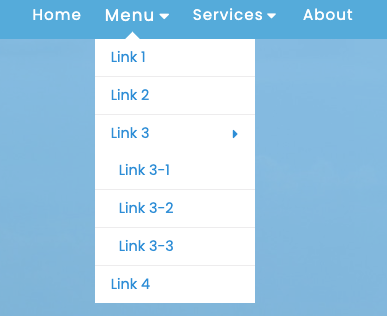
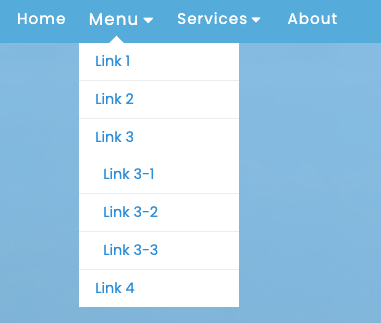
Fixed the arrow for show-dropdown in desktop screen size and updated screenshot for the README.md

Changed region(s): [[0.0, 0.0285, 1.0, 0.9684], [0.4619, 0.0285, 0.7218, 0.0854], [0.7507, 0.0285, 0.9239, 0.0854]]

diff --git a/index.html b/index.html
@@ -38,7 +38,9 @@
                       <a href="#">Link 2</a>
                     </li>
                     <li class="dropdown-link">
-                      <a href="#">Link 3<i class="fas fa-caret-down"></i></a>
+                      <a href="#"
+                        >Link 3<i class="fas fa-caret-down desk-hide"></i
+                      ></a>
                       <div class="show-dropdown">
                         <ul>
                           <li class="dropdown-link">

diff --git a/style.css b/style.css
@@ -35,6 +35,10 @@ section {
     overflow: hidden;
 }
 
+.desk-hide {
+    display: none;
+}
+
 .overlay {
     position: absolute;
     width: 100%;
@@ -311,6 +315,10 @@ section {
 }
 
 @media (max-width: 920px) {
+    .desk-hide {
+        display: block;
+    }
+
     .hamburger-menu-container {
         display: flex;
     }
